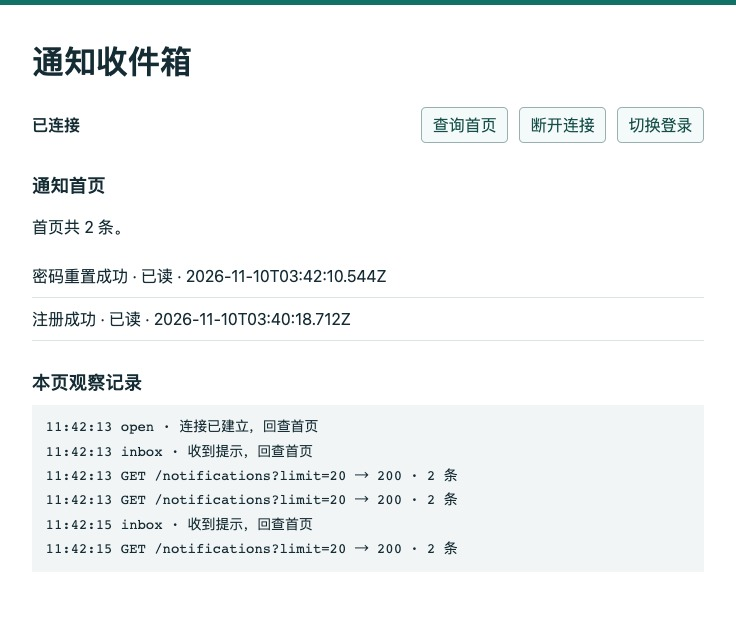
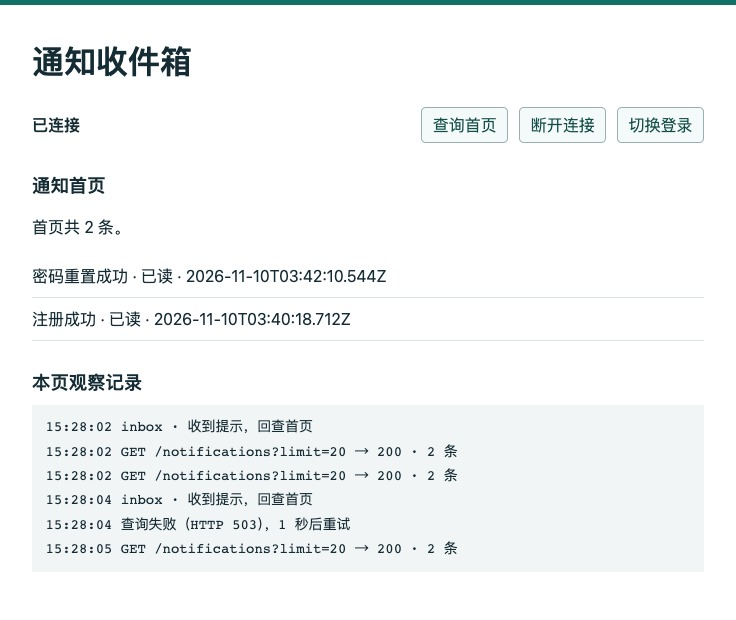
第47章：验证在线回查失败后的自动恢复

diff --git a/part-06-background/chapter-47-sse/chapter.md b/part-06-background/chapter-47-sse/chapter.md
@@ -2,7 +2,7 @@
 
 重置密码成功后，用户用新密码登录，打开站内收件箱，只看见原来那条注册通知。过了一会儿，通知 Worker 把“密码已重置”写进数据库。另开一个窗口查询，已经有两条；原来的页面还停在一条。现在拔掉网络，再插回来。谁来告诉这个页面应该重新查一次？如果那句提醒恰好也丢了呢？
 
-从[第 46 章](../chapter-46-notifications/chapter.md)配套分支 `part-06/chapter-46` 继续。上章把确认事务、后台任务和收件箱分开，提供了可以反复读取的首页。本章给打开的页面增加单向更新提示，并用断线、重连和撤销会话检验它。阅读约 45～60 分钟，搭建、双进程联调和故障实验另加 65～90 分钟。
+从[第 46 章](../chapter-46-notifications/chapter.md)配套分支 `part-06/chapter-46` 继续。上章把确认事务、后台任务和收件箱分开，提供了可以反复读取的首页。本章给打开的页面增加单向更新提示，并用断线、重连和撤销会话检验它。阅读约 50～65 分钟，搭建、双进程联调和故障实验另加 65～90 分钟。
 
 ## 47.1 从一张停在旧数据的页面开始
 
@@ -10,11 +10,11 @@
 
 最省事的做法是页面每隔几秒 GET 一次。只有少数读者、允许较长延迟时，停在这里完全合理。我们现在想让空闲页面保留一条下行连接，只在打开、重新连上或观察到变化时取完整列表。浏览器已有 EventSource，可以在普通 HTTP 响应里逐段接收服务器发送事件（Server-Sent Events，SSE）。标记已读和清除仍走第 46 章已有的写接口，沿用它们的会话和 CSRF 检查。以后若双方都要在同一连接上高频发送消息，再比较 WebSocket。本章的代价是占用较长时间的连接，服务端也要想办法知道 Worker 写了什么。
 
-**先在已有系统里留下可对照的现场。** 使用第 46 章的独立 VERIFY 或它的恢复副本，下文以 `epp_ch47_verify` 为例。先确认 DBeaver 的 `SELECT current_database()`、API 实际生效的 DATABASE_URL 和两个 Worker 的 DATABASE_URL 指向同一个练习库。保留已有记录，分支切换不需要迁移、回填或换密码。从空库起步，按[第 46 章的准备步骤](../chapter-46-notifications/chapter.md#461-收件箱的一行代表什么)在独立库引导到该章结构。不要重新引导非空库。下面的“一条”和“两条”用本轮新建的虚构账号复现。
+**先在已有系统里留下可对照的现场。** 使用第 46 章的独立 VERIFY 或它的恢复副本，下文以 `epp_ch47_verify` 为例。先确认 DBeaver 的 `SELECT current_database()`、API 实际生效的 DATABASE_URL 和两个 Worker 的 DATABASE_URL 指向同一个练习库。保留已有记录，分支切换不需要迁移、回填或换密码。从空库起步，按[第 46 章的准备步骤](../chapter-46-notifications/chapter.md#461-收件箱的一行代表什么)在独立库引导到该章结构。不要重新引导非空库。如果沿用原库名，把后面命令末尾的示例库名换成建库时记下的实际名称。
 
-1. 按[第 46.4 节](../chapter-46-notifications/chapter.md#464-用两次确认走完收件箱)使用 Mailpit、Postman 和两个角色。先做注册 01、02，按本轮 UUID 与邮箱开通 Web，05 登录。让通知 Worker 处理 registered，发 13 选中它，15 取当前会话的 CSRF，16 标记已读。用 18 回查，记下该条目的 ID 和首次阅读时间。
-2. **停通知 Worker，保留寄信能力。** 用 06 申请重置，从本轮信里取令牌发 07，用 08 确认旧会话已撤销，再用 10 和新密码登录。两种角色如果轮用同一个开发终端，先退出通知 watcher，再按前章方法启动邮件角色；无需同时占用两个 9230。此时用 18 查到的仍是已读的 registered。在第 46.4 节的 DBeaver 查询里按本轮 userId 筛选，password-reset 是 pending，还没有对应通知。在这个位置停下，后文要让它恰好在浏览器离线期间被消费。
-3. 停掉旧 API 和旧 watcher，在配套项目根使用 Node 24.22.1，切到本章分支 `part-06/chapter-47` 后运行 `npm ci` 与 `npm run check`。跟写者可以保留自己的第 46 章练习副本。保留 password-reset 为 pending，直到 47.4 节明确断开浏览器连接才启动通知 Worker。重做实验请使用新的虚构账号；对真实的历史通知继续用原 ID 核对。
+1. **从上一章收尾接着做。** 保留已开通的虚构账号、Mailpit、Postman 本地环境和独立库。用第 46 章 API 与集合登录，若 46.4 的登录仍有效可直接单发 18。记录首页各条的 ID 和 readAt、是否还有下一页；若首页为空，就把零条作为基线。按上章清除过旧的重置通知时，通常还看得到 registered；它原来的阅读状态可以保留。只有从空库独立跟做、尚无可登录账号时，才按[第 46.4 节](../chapter-46-notifications/chapter.md#464-用两次确认走完收件箱)用 01、02 注册、按 UUID 与邮箱开通并用 05 登录，启动通知 Worker 投递 registered。想复现图中的已读状态，可发 13、15、16，再用 18 记录基线。
+2. **先判定手里是否已有可投递的一条。** 停通知 Worker，在 DBeaver 运行 `SELECT id, expires_at, expires_at > clock_timestamp() AS valid FROM public.notification_jobs WHERE user_id = '本轮账号UUID'::uuid AND kind = 'password-reset' AND status = 'pending' ORDER BY created_at, id`，替换占位 UUID。若恰有一条有效待办，知道该轮重置后的密码，且其余能投递的工作都已核清，记下该 ID，直接进入步骤 3。要取得清楚的单事件对照，若已有多条有效待办，先在本机练习库投递完这些已知工作，再停通知角色、用 18 重取基线。需要产生新任务时，启动邮件角色，Postman 的 newPassword 设为不同的新密码；发 06 申请重置，从本轮信取令牌发 07，用 08 确认原会话已撤销，再用 10 登录。18 应仍显示原基线。用刚才的 SQL 核对新增 ID 和期限，通知角色暂不启动。
+3. 停掉旧 API 和旧 watcher，在配套项目根使用 Node 24.22.1，切到本章分支 `part-06/chapter-47` 后运行 `npm ci` 与 `npm run check`。跟写者可以保留自己的第 46 章练习副本。暂时让这条工作保持 pending，直到 47.4 节断开浏览器连接。跨天回来时检查 expires_at；已经过期就再用步骤 2 产生一条有效待办，记下新的 ID。
 
 即使到这里完全不用 SSE，发 18 也能交代账号当前看得见什么。接下来增加的每个推送都可以用它独立核对。
 
@@ -211,7 +211,7 @@ process.env.DB_QUERY_DEBUG = "false";
 await import("./scripts/dev.mjs");' epp_ch47_verify
 ```
 
-在第二个终端进入同一项目根目录，运行 `API_PORT=3360 node examples/inbox-stream/server.mjs`，打开 `http://127.0.0.1:3100/`。这个本机 Node 入口提供页面，对登录、身份、收件箱和事件流把原请求转给 3360，再把收到的字节逐段传回来。页面没有跨源 fetch，也没有开放生产 API 的静态实验路由。不要把地址栏里的 127.0.0.1 换成 localhost 后继续使用原 APP_ORIGIN。跟写的读者可从本章配套分支取 `examples/inbox-stream/` 和 `requests/chapter-47.postman_collection.json` 作为实验材料。配套目录 `examples/inbox-stream/` 含入口和页面。Postman 选择 Import，导入 `requests/chapter-47.postman_collection.json`；选回本地未同步环境，将 baseUrl 指向 `http://127.0.0.1:3360`。01～18 沿用前章编号，19 专门打开事件流。18 取本页用的二十条，13 的页长为一，用来选定随后要操作的首条。
+在第二个终端进入同一项目根目录，运行 `API_PORT=3360 node examples/inbox-stream/server.mjs --fault-console`，打开 `http://127.0.0.1:3100/`。这个本机 Node 入口提供页面，对登录、身份、收件箱和事件流把原请求转给 3360，再把收到的字节逐段传回来。页面没有跨源 fetch，也没有开放生产 API 的静态实验路由。不要把地址栏里的 127.0.0.1 换成 localhost 后继续使用原 APP_ORIGIN。跟写的读者可从本章配套分支取 `examples/inbox-stream/` 和 `requests/chapter-47.postman_collection.json` 作为实验材料。配套目录 `examples/inbox-stream/` 含入口和页面。Postman 选择 Import，导入 `requests/chapter-47.postman_collection.json`；选回本地未同步环境，将 baseUrl 指向 `http://127.0.0.1:3360`。01～18 沿用前章编号，19 专门打开事件流。新导入的集合有自己的一份 Variables。沿用旧账号时，把上章 02 留下的 UUID 填入第 47 章集合变量 userId 的本地值；12 会用它核对返回的身份。如果没有记下 UUID，在 DBeaver 用已核实的虚构邮箱查询 `SELECT user_id FROM public.verified_emails WHERE email='本轮练习邮箱'`。确认只找到该账号再填写，别用同名环境变量代替集合变量。18 取本页用的二十条，13 的页长为一，用来选定随后要操作的首条。
 
 页面登录表单用已开通的本轮邮箱和**重置后的密码**调用原来的 /auth/login。Postman 的 Cookie 与浏览器的 Cookie 分属两个客户端，即使登录同一个账号，两边会话也不同。在 `examples/inbox-stream/app.js` 中建立连接时有两个值得一起看的回调（省去界面文字）：
 
@@ -229,11 +229,12 @@ stream.addEventListener('inbox', () => {
 });
 ```
 
-open 每次连接成功都查首页，自动重连也走这里；命名事件同样从最新处重新查。服务端初始提示与 open 可能接连抵达。若直接并行发两次 GET，较慢的旧响应可能把新画面盖回去。firstPage 内用 active 记录正在进行的查询，期间再来提示只设 rerun；当前查询结束后最多立刻再查一轮。取回的 items 整页替换。这样重复提示不会重复追加行。断开时 close 事件源并 abort 在途查询，旧连接即使还有排队的回调，也不能再改这张页面。查询前后检查 /auth/me 的会话身份，401、403 或账号切换时清空原列表并要求重新登录。整个过程中页面不需要读取 Cookie 值。
+open 每次连接成功都查首页，自动重连也走这里；命名事件同样从最新处重新查。服务端初始提示与 open 可能接连抵达。若直接并行发两次 GET，较慢的旧响应可能把新画面盖回去。firstPage 内用 active 记录正在进行的查询，期间再来提示只设 rerun；当前查询成功后最多立刻再查一轮。取回的 items 整页替换。这样重复提示不会重复追加行。断开时 close 事件源并 abort 在途查询，旧连接即使还有排队的回调，也不能再改这张页面。查询前后检查 /auth/me 的会话身份，401、403 或账号切换时清空原列表并要求重新登录。整个过程中页面不需要读取 Cookie 值。
 
 看一下处理速度不同时的顺序。在 `app.js` 的 firstPage 开头，如果已有查询在途，只登记一次“还得再查”。下面两段分别位于函数开头和 finally 块中：
 
 ```js
+if (retryTimer !== undefined) return;
 if (active) { rerun = true; return; }
 const controller = new AbortController();
 active = controller;
@@ -248,7 +249,22 @@ if (active === controller) {
 
 设请求 A 发出后页面又收到两次 inbox。A 返回时页面先应用它的结果，然后只启动一个请求 B，来取 A 在途期间可能提交的变化。反过来，若 A 返回前用户断开并改用另一个账号，disconnect 已取消请求并清空相应引用；A 的回调检查 active 已经换了，也就不会把上一个账号的结果画回来。点击“切换登录”只让实验页放下当前连接并回到表单；需要撤销服务器会话时仍要调用原有的退出或会话撤销接口。
 
-**让一条真实通知错过连接。** 保持通知 Worker 停止。登录后先等页面显示一条“注册成功 · 已读”，再点“断开连接”。此按钮会调用 close，刻意保留上次结果。如果邮件角色仍在开发终端运行，先按 Ctrl-C，等 watcher 释放 9230 和输出目录。现在才启动通知角色：
+还有一个容易忽略的先后顺序。服务器发现变化、发出最后一次 inbox 后就记住了新的首页。如果浏览器那次 GET 恰好返回 503，数据库接下来又没有变化，连接可以一直有心跳，页面却一直显示旧状态。需要重试的是那次查询。firstPage 在网络失败、408、429 或 5xx 时用当前 stream 安排下面的定时器。多条提示和手动查询在等待期间都合并到同一次重试：
+
+```js
+const delay = retryDelay;
+retryDelay = Math.min(delay * 2, 8000);
+// 这里在页面记录失败原因和本轮等待秒数。
+retryTimer = setTimeout(() => {
+  if (stream !== source) return;
+  retryTimer = undefined;
+  void firstPage();
+}, delay);
+```
+
+第一次等一秒，连续失败依次等两秒、四秒，之后每次最多等八秒。成功刷新后把 retryDelay 恢复到一秒。主动断开会清掉定时器并取消在途请求；切换账号或收到 401、403 还会清掉旧数据。重试重新校验会话，旧连接的响应和计时器都不能替新账号修改页面。
+
+**让一条真实通知错过连接。** 保持通知 Worker 停止。登录后先等页面显示与 18 一致的基线（图中是一条已读注册通知），再点“断开连接”。此按钮会调用 close，刻意保留上次结果。如果邮件角色仍在开发终端运行，先按 Ctrl-C，等 watcher 释放 9230 和输出目录。现在才启动通知角色：
 
 
 ```bash
@@ -256,23 +272,25 @@ unset DATABASE_URL DB_QUERY_DEBUG DB_POOL_MAX LOCAL_SMTP_PORT LOG_LEVEL
 npm run dev:worker -- epp_ch47_verify notifications
 ```
 
-先等本轮 password-reset 的任务变为 done。保持浏览器断开，在 Postman 发 18，检查新增的 ID 和 kind。用这个独立查询判定消息已经入箱；页面上的旧结果本身无法告诉你 Worker 是否成功。
+先等 47.1 记下的 password-reset 任务 ID 变为 done。保持浏览器断开，在 Postman 发 18，检查新增的 ID 和 kind。用这个独立查询判定消息已经入箱；页面上的旧结果本身无法告诉你 Worker 是否成功。
 
 ![断开后的浏览器保留已读注册通知](images/inbox-offline.jpg)
 
 图 47-1　页面停在上次查询的一条记录。断开只改变这张页面的连接，Worker 仍可提交，另一个已登录客户端仍可查到新增通知。
 
-点击“重新连接”。这次是代码显式创建**新的** EventSource。首次 inbox 提示依然只有 refresh，页面却能显示两条，因为它另发了一次 GET。点“查询首页”重复读取，两条通知各出现一次；如果旧库有更多数据，页面只展示最新二十条。对照 ID 时打开 Network，点普通的 /notifications?limit=20 请求看 Response，与 Postman 18 的 items 对照；实验页只渲染种类、状态和时间。
+点击“重新连接”。沿用历史数据时按刚才的 ID 核对新入箱的首条，其余各行按自己的基线比较。图中这次是代码显式创建**新的** EventSource。首次 inbox 提示依然只有 refresh，页面却能显示两条，因为它另发了一次 GET。点“查询首页”重复读取，两条通知各出现一次；如果旧库有更多数据，页面只展示最新二十条。对照 ID 时打开 Network，点普通的 /notifications?limit=20 请求看 Response，与 Postman 18 的 items 对照；实验页只渲染种类、状态和时间。
 
 ![重新连接后首页同时显示密码重置成功和注册成功](images/inbox-reconnected.jpg)
 
 图 47-2　较新的“密码重置成功”处于未读，旧注册通知仍是已读。页面观察记录把流上的 open、inbox 与实际读取的行数分开显示。
 
-现在让页面保持连接。在 Postman 依次单发 13 选中最新 password-reset、15 取 **Postman 当前会话**的 CSRF、16 标记已读。等首行变化触发提示，再用 18 核对 readAt。要重做这一轮需另一条未读首行，对同一行再发一次 16 会保留首次时间。
+**让最后一次提示遇到一次 503。** 保持这个实验页已连接，等初始查询都结束，确认最新的 password-reset 仍为未读。若它已经被读过，按 47.1 再产生一条新的未读首行。重新设置密码会撤销旧会话，浏览器和 Postman 都要用该轮密码重新登录。只留这一个实验页；Postman 继续直连 3360。在运行 3100 入口的终端输入 `503` 并回车，看到“503 已就绪”。这个开关只会拦下一次经该入口的首页 GET，事件流仍通。此时别点“查询首页”。
 
-![在线页面回查后将首行显示为已读](images/inbox-live-read.jpg)
+在 Postman 单发 13 选中当前未读的首行，15 取 **Postman 当前会话**的 CSRF，16 标记已读。只做这一次修改。看浏览器下方的顺序：inbox、查询失败（HTTP 503）、稍后 GET 200。两次查询之间没有新的 inbox 或 open，也没有人点刷新；同一行现在显示已读。再发 18 核对 readAt。若提前消耗了一次 503，要重新准备未读目标，已经标过的条目重复发 16 会保留首次时间。
 
-图 47-3　首行仍是同一条通知，阅读状态已变化。下方记录先出现 inbox，再出现 GET 的结果。只收到提示不会自动标记任何通知已读。
+![最后一次提示后的查询暂时失败，页面自动回查并显示已读](images/inbox-live-read.jpg)
+
+图 47-3　另一次 Chrome 实验，末尾三条记录来自同一条仍在线的流。15:28:04 的提示触发查询，入口返回 503；一秒后的 GET 返回当前两条通知，首行的阅读状态随之更新。
 
 再试一次**浏览器自动重连**：保留页面、API 和账号，只在运行 3100 实验入口的终端按 Ctrl-C，然后用相同命令启动它。页面脚本已经加载，原响应随入口退出而断开。观察原 EventSource 先报 error，入口恢复后出现新的 open 和首页查询；这次没有点击“重新连接”。短暂中断时，页面对 /auth/me 或 /notifications 的查询本身也可能失败，等重新连接后用 18 核对最终内容。接着只撤销浏览器这一处登录。在 Network 的 /auth/me 响应中找到浏览器自己的 sessionId；保留同账号 Postman 登录，发 15 更新它自己的 CSRF。在 Postman 新建 DELETE /auth/sessions/{浏览器的 sessionId}，带 X-EPP-Request: 1 与 X-CSRF-Token（使用 15 保存的 csrfToken），Body 选 none。204 后保持页面不动，下一次服务端复核会结束流，浏览器回查得到 401，清空内容并回到登录。Postman 发 18 应仍是 200。不要把会话标识放进截图。
 

diff --git a/part-06-background/chapter-47-sse/side-01-replay.md b/part-06-background/chapter-47-sse/side-01-replay.md
@@ -62,6 +62,8 @@ SELECT position, action FROM public.ch47_replay_demo ORDER BY position;
 
 假设按账号保存最近七天事件，最早尚存的位置为 80。停在 79 的设备还能拿齐后续事件；停在 40 的设备已经缺少 41～79。每批读取都要在同一快照里检查仍可接续的最早位置并取事件。即使第一批读得到，客户端暂停期间清理也可能追过它。发现缺口就返回进度过旧及恢复入口。若调用方只需要重新构建当前视图，可以在同一数据库快照读取该账号的状态以及位置 H，用这份结果替换本地视图，再从 H 之后接续。若先读状态，稍后另查最新 H，夹在两次读取之间的修改会被错误地标为已应用。多页快照也要属于同一个版本，普通活列表逐页读取无法给出这项保证。
 
+如果七天里没有新动作，清理可能把这个账号的历史行全部删光。`MIN(position)` 此时为 NULL：从没产生过事件，和已经写到 90 又全部清掉，表里看起来一样。为每个账号持久保存“已清理到的位置” F（初始为 0），只清除连续前缀，并在同一事务推进 F；计数器仍保存已提交的最高位置 H。服务端在同一快照比较客户端位置 P 和两个边界：P 小于 F 就已缺历史，P 等于 F 可以从下一条继续，P 大于 H 则须核对进度所属的账号与历史。即使已清到 F = H = 90，停在 89 的设备也必须走恢复入口，停在 90 的设备可以安全等待 91。只看这次查询返回零行，分不出这两种结果。
+
 若合同要求逐项说明哪个动作发生过，快照只能恢复工作界面，无法补出 41～79。需要延长可查询历史的期限、准备受同样权限约束的归档，或明确最长支持离线多久。首次上线也要约定历史起点：昨天还没有记录动作，今天开始发事件，无从倒推出昨天的操作顺序。
 
 回到 EPP，打开收件箱需要的是当前账号此刻可见的条目。允许几秒或更长的延迟时，页面也可以在回来或定时刷新时查询；希望页面保持打开时更早获知变化，就保持一条 SSE 连接。如果后来要在同一连接里双向交换高频命令，再考虑 WebSocket。换传输方式会改变连接和收发代码，前面那笔晚提交的 41、尚未保存的本地进度和超期的历史仍各自需要处理。
